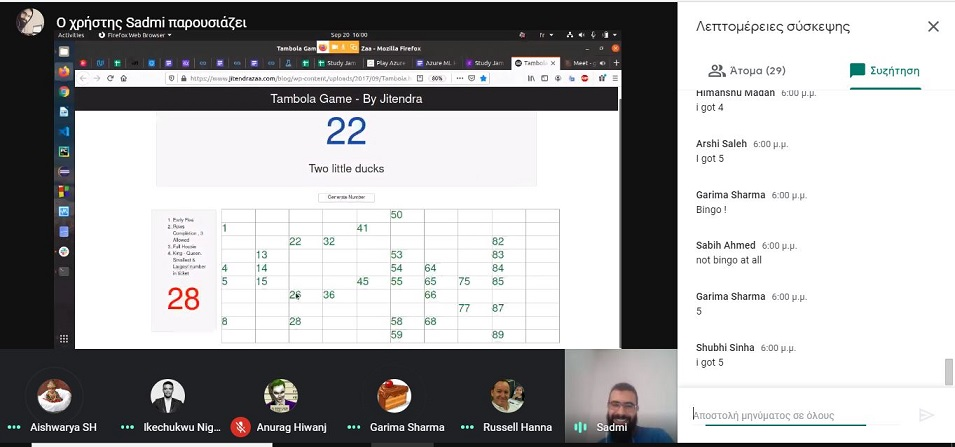
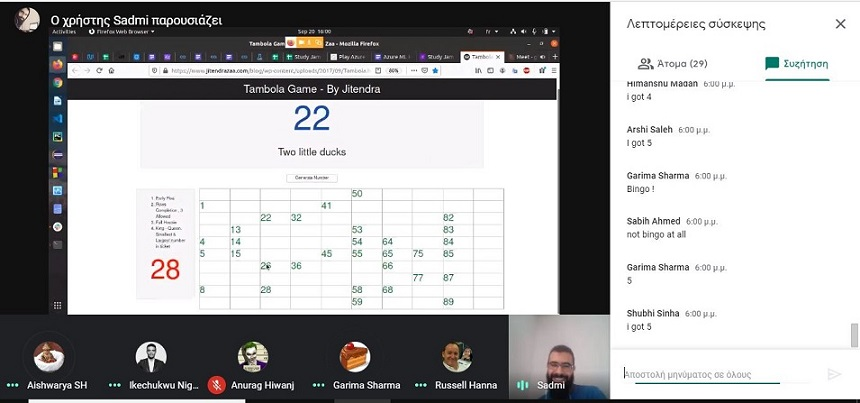
update: Day 68, add new img

diff --git a/README.md b/README.md
@@ -29,6 +29,9 @@ ___
 ![Day67/17](./img/Day67.JPG "Day 67 Slack post")
 ![Day67/17](./img/Day67B.JPG "Day 17 of 26 DaysOfConcepts Slack post")
 
+***Tambola during Study Jam 3.0: I didn't win but it was so much fun!***
+![Day67/17](./img/Study_Jam3.0-5.JPG "Tambola!")
+
 ![Day67/17](./img/Study_Jam3.0-3.JPG "Webinar - Business & Humanitarian Use Cases of AI")
 ![Day67/17](./img/Study_Jam3.0-2.png "Study Jam Quiz")
 
